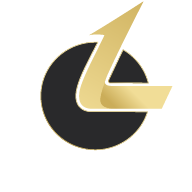
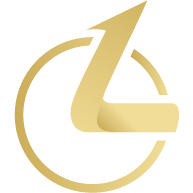
LR-XXX: заменил в сотый раз иконки приложения

diff --git a/src/@components/@icons/LorderLogo.tsx b/src/@components/@icons/LorderLogo.tsx
@@ -5,14 +5,15 @@ import SvgIcon from '@material-ui/core/SvgIcon';
 export default function LorderLogo(props) {
   return (
     <SvgIcon {...props} viewBox="0 0 48 48">
+      <title>48x48</title>
       <defs>
         <linearGradient
           id="linear-gradient"
-          x1="40.89"
-          y1="33.73"
-          x2="29.44"
-          y2="22.28"
-          gradientTransform="matrix(1, 0, 0, -1, 0, 50)"
+          x1="40.29"
+          y1="-1249.87"
+          x2="27.86"
+          y2="-1262.3"
+          gradientTransform="matrix(1, 0, 0, -1, 0, -1227.23)"
           gradientUnits="userSpaceOnUse"
         >
           <stop offset="0.63" stopColor="#f1dd97" />
@@ -20,49 +21,48 @@ export default function LorderLogo(props) {
         </linearGradient>
         <linearGradient
           id="linear-gradient-2"
-          x1="17.92"
-          y1="19.92"
-          x2="38.65"
-          y2="55.82"
-          gradientTransform="matrix(1, 0, 0, -1, 0, 50)"
+          x1="15.38"
+          y1="-1263.02"
+          x2="40.02"
+          y2="-1220.34"
+          gradientTransform="matrix(1, 0, 0, -1, 0, -1227.23)"
           gradientUnits="userSpaceOnUse"
         >
           <stop offset="0" stopColor="#f1dd97" />
           <stop offset="1" stopColor="#cbad59" />
         </linearGradient>
-        <linearGradient id="linear-gradient-3" x1="34.9" y1="34.34" x2="28.4" y2="27.84" xlinkHref="#linear-gradient" />
+        <linearGradient
+          id="linear-gradient-3"
+          x1="41.67"
+          y1="17.85"
+          x2="32.42"
+          y2="17.85"
+          gradientTransform="matrix(1, 0, 0, 1, 0, 0)"
+          xlinkHref="#linear-gradient-2"
+        />
         <linearGradient
           id="linear-gradient-4"
-          x1="30.96"
-          y1="33.21"
-          x2="13.81"
-          y2="16.06"
-          xlinkHref="#linear-gradient"
+          x1="41.24"
+          y1="28.58"
+          x2="3.55"
+          y2="28.58"
+          gradientTransform="matrix(1, 0, 0, 1, 0, 0)"
+          xlinkHref="#linear-gradient-2"
         />
       </defs>
-      <title>Lorder Logo</title>
       <path
         fill="url(#linear-gradient)"
-        d="M43.3,21.62H28c-1.71,0-2-.54-1.83-1.44h0a15.56,15.56,0,0,0-1.37,5c.06,1.54,1.21,2.06,2.81,2.17h13Z"
+        d="M43.62,32.86c.88-2.22,1.82-7.15-1-7.15H29.35c-1.41,0-4.26.16-3.75-1.94-.75,2.07-2.82,6-1,8,1.17,1.31,3.27,1.07,4.85,1.07Z"
       />
       <path
         fill="url(#linear-gradient-2)"
-        d="M27.62,27.36H22.93c-3.17,0-3.83-2.33-3.11-5.06.94-3.54,4.61-10.16,6.22-13.68a10.38,10.38,0,0,0-3.85,0C27.43,5.53,35.89.07,35.89.07s-6.18,12-9.19,18.71a35,35,0,0,0-1.82,6.38C24.94,26.73,26.1,27.16,27.62,27.36Z"
+        d="M27.44,32.85H21.53c-3.41,0-4.56-3.47-3.92-6.38,1-4.52,6.69-14.58,8.71-19a13.58,13.58,0,0,0-4.84-.16c6.31-3,9.07-4.38,15.08-7.28-3.79,8.45-6.5,13.58-10.28,22-.3.65-2.38,6.18-2.3,8.08S25.52,32.6,27.44,32.85Z"
       />
       <path
-        fill="#29292b"
-        stroke="url(#linear-gradient-3)"
-        strokeMiterlimit={10}
-        strokeWidth="0.25px"
-        d="M33.5,14.44a13.47,13.47,0,0,0-2.76-2.11c-1.13,2.26-3.62,7.58-3.74,8h0a.32.32,0,0,0,.24.4h0c.27,0,9.9.06,9.9.06a13.09,13.09,0,0,0-.68-2A13.66,13.66,0,0,0,33.5,14.44Z"
+        fill="url(#linear-gradient-3)"
+        d="M39.54,23.55h2.13a19.44,19.44,0,0,0-8.39-11.4h0L32.4,14A17.2,17.2,0,0,1,39.54,23.55Z"
       />
-      <path
-        fill="#29292b"
-        stroke="url(#linear-gradient-4)"
-        strokeMiterlimit={10}
-        strokeWidth="0.25px"
-        d="M22.92,28.14a4.17,4.17,0,0,1-3.42-1.41c-.84-1.08-1-2.67-.5-4.61.58-2.59,2.61-6.5,4.41-10l.89-1.73h-.63a13.74,13.74,0,0,0-5.4,1.08A13.57,13.57,0,0,0,13.85,33.8a14,14,0,0,0,15.23,2.93,13.8,13.8,0,0,0,7.4-7.28c.18-.43.34-.87.48-1.31Z"
-      />
+      <path fill="url(#linear-gradient-4)" d="M39,35a17.36,17.36,0,1,1-17-23.82l1-2h-.17A19.42,19.42,0,1,0,41.24,35Z" />
     </SvgIcon>
   );
 }
